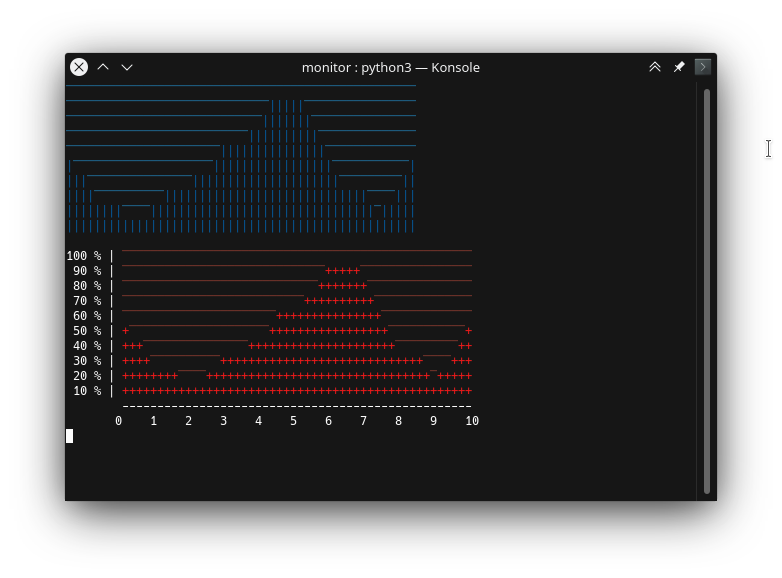
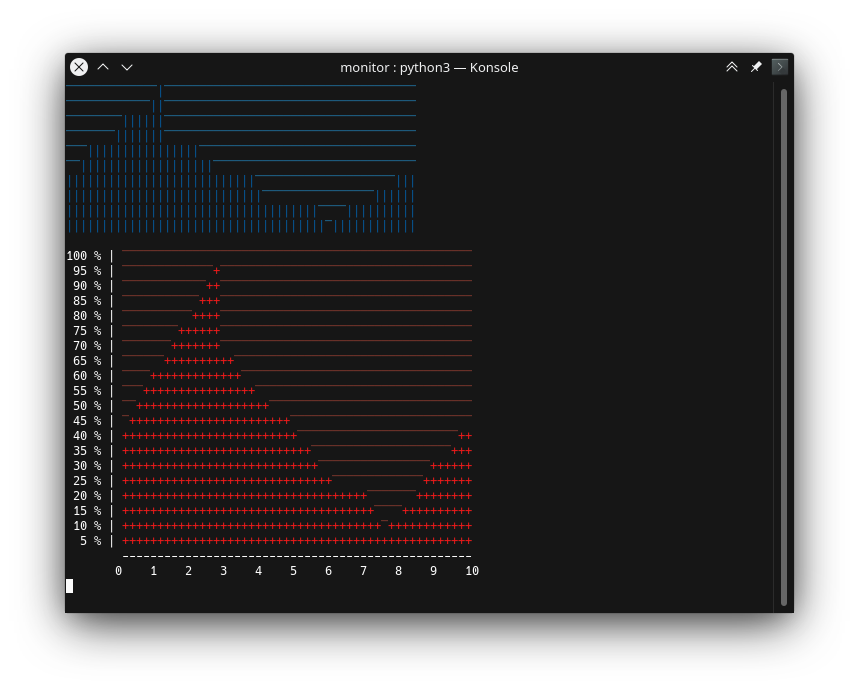
linhas

Changed region(s): [[0.0614, 0.0623, 0.9514, 0.9343], [0.5831, 0.7163, 0.6138, 0.7474]]

diff --git a/test.py b/test.py
@@ -5,7 +5,7 @@ import os
 import monitor
 
 # Criar 1° monitor
-blue_monitor = monitor.Monitor(columns=50, scale_color="blue", space_color="blue-dark")
+blue_monitor = monitor.Monitor(columns=50, lines=10, scale_color="blue", space_color="blue-dark")
 blue_model = blue_monitor.get_model()
 blue_monitor.set_model(blue_model)
 
@@ -13,7 +13,7 @@ blue_monitor.set_model(blue_model)
 # serve pra gerar os números antigos da coluna, como um histórico.
 
 # Criar 2° monitor
-red_monitor = monitor.Monitor(columns=50, scale_color="red", space_color="red-dark", scale_character="+")
+red_monitor = monitor.Monitor(columns=50, lines=20, scale_color="red", space_color="red-dark", scale_character="+")
 red_model = red_monitor.get_model()
 red_monitor.set_model(red_model)
 
@@ -22,8 +22,11 @@ red_monitor.set_model(red_model)
 
 # Valor inicial do monitoramento
 v = 0
+# Valor máximo do monitoramento. corresponde ao número de linhas
+lines = 20
 # Flag para inverter números aleatórios
 inverse = False
+
 while True:
     # Inverte ordem para decrementar ou incrementar
     if inverse:
@@ -32,20 +35,20 @@ while True:
         v += random.randrange(0, 2)
 
     # Se chegar a 10, inverte ordem para decrementar
-    if v >= 10:
+    if v >= 20:
         inverse = True
-        v = random.randrange(5, 10)  # Não deixa passar de 10
+        v = random.randrange(5, lines)  # Não deixa passar do máximo
 
     # Se chegar a 0, inverte ordem para incrementar
     elif v <= 0:
         inverse = False
-        v = random.randrange(0, 5)  # Não deixa ser menor que 0
+        v = random.randrange(0, lines / 2)  # Não deixa ser menor que 0
 
     # Limpar para atualizar a tela do terminal durante o loop
     os.system("clear")
 
     # Aqui o primeiro monitor é exibido como uma só string.
-    blue = blue_monitor.get_as_color_str(v)
+    blue = blue_monitor.get_as_color_str(round(v/2))  # valor dividido por 2, pois esse monitor tem metade da altura
     blue_model = blue_monitor.get_model()  # Atualiza o modelo do monitor
     print(blue)
 
@@ -58,13 +61,19 @@ while True:
 
     n = 100
     for p in red:
-        num_str = str(n)
-        if n < 100:
+        num_str = str(n)  # Esses números serão uma etiqueta na vertical antes do monitor
+
+        # Ajustar identamento de números menor que 10 e 100
+        if n < 10:
+            num_str = "  " + str(n)
+        elif n < 100:
             num_str = " " + str(n)
 
+        # Exibe etiqueta e a linha do monitor
         print(num_str + " % |", p)
-        n -= 10
+        n -= 5
 
+    # Desenha as etiquetas da horizontal
     print("        " + "-" * 50)
     print("       0    1    2    3    4    5    6    7    8    9    10")
 

diff --git a/monitor.py b/monitor.py
@@ -8,6 +8,7 @@ class Monitor(object):
     def __init__(self,
                  value=5,
                  columns=10,
+                 lines=10,
                  space_character="⎺",
                  scale_character="|",
                  scale_color="green-dark",
@@ -16,6 +17,7 @@ class Monitor(object):
         Inicia a classe.
         :type value: int
         :type columns: int
+        :type lines: int
         :type space_character: str
         :type scale_character: str
         :type scale_color: str
@@ -27,6 +29,7 @@ class Monitor(object):
 
         self.value = value
         self.columns = columns
+        self.lines = lines
         self.scale_character = scale_character
         self.space_character = space_character
         self.scale_color = scale_color
@@ -119,9 +122,9 @@ class Monitor(object):
             # Preencher o resto da linha onde é o "vazio", com outro caractere
             fill = ""
             # as colunas são sempre uma escala de 10 %, i.e de 10 em 10
-            if m < 10:
+            if m < self.lines:
                 # resto faltante
-                rest = 10 - m
+                rest = self.lines - m
                 fill = self.space_character * rest
 
             # Preencher
@@ -147,8 +150,8 @@ class Monitor(object):
         # Pega o caractere de cima de todos os itens, e cria uma lista
         # depois os próximos caracteres e faz outra lista ...
         model_print = list()
-        nc = 9  # de zero a 9 são 10
-        for r in range(10):  # Altura da coluna
+        nc = self.lines - 1  # numero de linhas menos 1 pq abaixo a contagem é iniciada do zero e não do um
+        for r in range(self.lines):  # Altura da coluna
             character = ""
             for i in model_draw:
                 character = character + i[nc]
